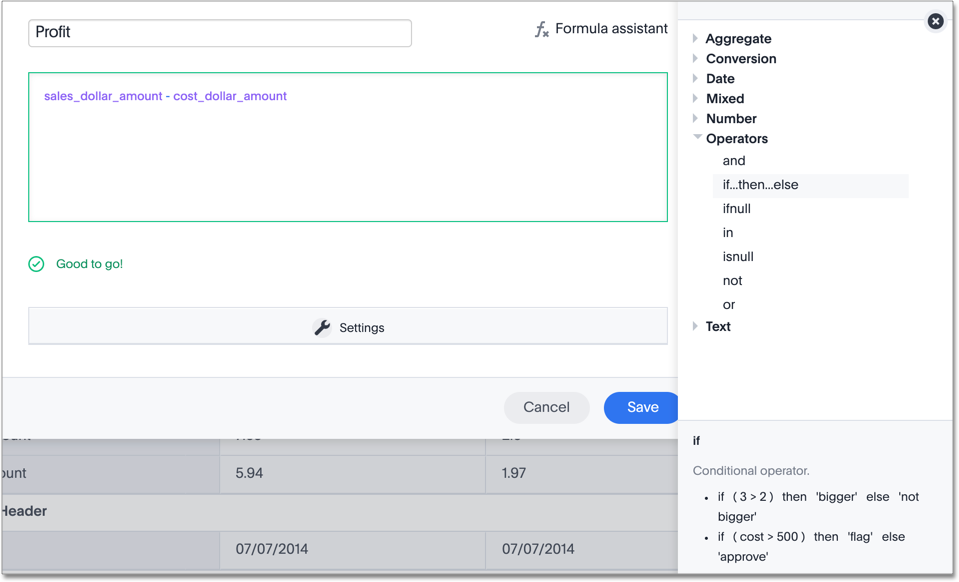
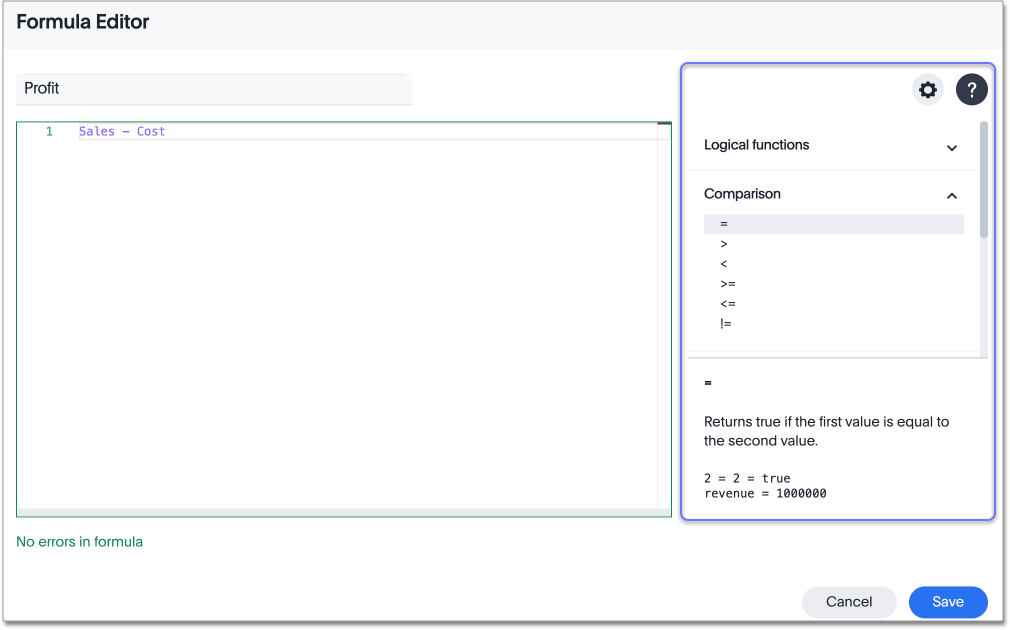
formula editor, beginnings of table config, answer v2 callouts for relevant features

diff --git a/_end-user/search/about-tables.md b/_end-user/search/about-tables.md
@@ -1,11 +1,15 @@
 ---
 title: [Results that are tables]
-last_updated: 3/13/2020
+last_updated: 7/31/2020
+toc: true
 summary: "Tables display your answer in a format similar to an Excel spreadsheet."
 sidebar: mydoc_sidebar
 permalink: /:collection/:path.html
 ---
-In the table view, your search identifies attributes and/or columns, and presents them as a table. ThoughtSpot aggregates the results based on the level of aggregation that you specify in the search. For example, if you only type `revenue`, you see the total sum of revenue as a single number. If you include the keyword `monthly`, the results are broken down by month. From the column header, you can rename the column, or sort or filter the column. You can rearrange the column order of your table by dragging and dropping the columns. You can also change the column widths.
+
+{% include note.html content="Certain elements of table configuration are part of the Answer V2 feature set. These elements include conditional and number formatting for table summaries and improved conditional formatting for attributes and measures in table cells. If Answer V2 is off, you do not see these capabilities. You can turn Answer V2 on or return to the classic experience from the <strong>Data</strong> panel on the <strong>Search</strong> page. If you do not have the option to turn Answer V2 on, contact your administrator." %}
+
+In the table view, your search identifies attributes and/or columns, and presents them as a table. ThoughtSpot aggregates the results based on the level of aggregation that you specify in the search. For example, if you only type `revenue`, you see the total sum of revenue as a single number. If you include the keyword `monthly`, the results are broken down by month. From the column header, you can rename the column, or sort or filter the column. You can rearrange the column order of your table by dragging and dropping the columns, either from the table itself or from the **Edit table: Configure** menu. You can also change the column widths.
 
 ## Rearrange column order
 
@@ -15,6 +19,10 @@ To rearrange the column order:
 
 1. While viewing your answer as a table, click the column header you would like to move.
 2. Drag it across to its new position.
+
+You can also rearrange the column order from the **Edit table: Configure** menu. Click the **edit table configuration** icon ![]({{ site.baseurl }}/images/icon-gear-10px.png){: .inline}. Drag and drop the attribute or measure that you would like to move to a new position. The order of columns in the **Configure** menu reflects the column order of the table.
+
+![Drag and drop gif]({{ site.baseurl }}/images/table-config-drag-drop.gif "Drag and drop gif")
 
 ## Resize column widths
 
@@ -27,23 +35,101 @@ when you pin the table to a pinboard. To resize the column widths:
 
 {: id="clip-wrap-text"}
 ## Clip or wrap text
-You can clip or wrap long text in a table cell, or on a table header.
+You can clip or wrap long text in a table cell, or on a table header. You can configure clipped or wrapped text [for the entire table](#clip-entire-table), or [for each column individually](#clip-one-column).
 
 When you clip long text, the table cells show only the beginning of the text. The rest appears if you increase the column width.
 
 When you wrap long text, the table shows all the text in its cells by increasing the number of lines in the cells.
 
-![Wrap or clip long text]({{ site.baseurl }}/images/chart-config-text.gif "Wrap or clip long text")
+{: id="clip-entire-table"}
+To clip or wrap text for the entire table, click the **edit table configuration** icon ![]({{ site.baseurl }}/images/icon-gear-10px.png){: .inline}. Select **Settings**. Under **text wrapping**, choose **wrap** or **clip**.
+
+![Wrap or clip long text]({{ site.baseurl }}/images/table-config-text.gif "Wrap or clip long text")
+
+{: id="clip-one-column"}
+To clip or wrap text for each column individually, hover over the column name and click the **more options menu** icon ![]({{ site.baseurl }}/images/icon-more-10px.png){: .inline}. Select **text wrapping,** and choose wrap or clip.
+
+![Clip or wrap an individual column]({{ site.baseurl }}/images/table-config-clip-individual-column.png "Clip or wrap an individual column")
+
+{: id="number-formatting"}
+## Number formatting
+You can format the numbers in any table column based on a measure. This functionality allows you to change the **category** (number, percentage, or currency), **units** (auto, none, thousand, million, billion, or trillion), or method of writing **negative values** (-1234, 1234-, or (1234)). When you change the formatting for a column, you also change the formatting for its column summary.
+
+To change the number formatting:
+
+1. Click the **edit table configuration** icon ![]({{ site.baseurl }}/images/icon-gear-10px.png){: .inline} to the upper right of your table. The **Edit table** panel appears, on the **Configure** menu.
+
+2. Select the measure you want to format the values of.
+
+    ![Select a measure]({{ site.baseurl }}/images/table-config-edit-measure.png "Select a measure")
+
+    The **Edit** panel for that column appears.
+
+    You can also reach this panel from the **more** icon that appears when you hover over a column name:
+
+    ![Click number formatting]({{ site.baseurl }}/images/table-config-number-formatting-from-column.png "Click number fomatting")
+
+    On the table, the column that you are editing is highlighted in a blue box.
+
+    ![The edit panel]({{ site.baseurl }}/images/table-config-edit-panel.png "The edit panel")
+
+3. Under **number formatting**, you can edit the category, units, or method of writing negative values. Click the dropdown menus to select new values.
+
+4. Specify a **category**: *number*, *percentage*, or *currency*. If you select **currency**, you can select the type of currency: USD, AUD, EUR, and so on. If you do not pick a category, ThoughtSpot automatically picks the best category for your data.
+
+5. Specify **units**: Select *none* to see your data down to two decimal points, for example, or select *millions* to see labels rounded to the millions. If you do not specify units, ThoughtSpot automatically picks the best units for your data.
+
+    Depending on the unit, you can also specify the number of decimal places, and remove or include the thousand separator.
+
+    ![Unit, decimal places, thousand separator]({{ site.baseurl }}/images/table-config-unit.png "Unit, decimal places, thousand separator")
+
+6. Specify the method for writing **negative values**: -1234, 1234-, or (1234). The default is -1234.
+
+![Number formatting gif]({{ site.baseurl }}/images/table-config-number-formatting.gif "Number formatting gif")
+
+{: id="conditional-formatting"}
+## Conditional formatting
+You can perform conditional formatting on both measures and attributes. 
 
 ## Sort columns
 
 You can sort a table by column values by clicking on the column title. If you
-hold down the SHIFT key you can click multiple heads and sort on them in
-turn.
+hold down the SHIFT key, you can sort on multiple column titles at a time. This is especially useful for date columns. For example, if you search for `sales` by `week` and by `quarter`,  and just sort the `quarterly` column, the weeks are not in order:
+
+![Sort - quarterly]({{ site.baseurl }}/images/sort-one-column.png "Sort - quarterly")
+
+If you press SHIFT and then click on the `weekly` column header, the weeks are in order, by quarter:
+
+![Sort - weekly]({{ site.baseurl }}/images/sort-two-columns.png "Sort - weekly")
+
+You can achieve this from the search bar, as well, by adding `sort by date quarterly` and `sort by date weekly`.
 
 {% include tip.html content="This same functionality is available on tables you
 see elsewhere in ThoughtSpot. For example, a table in the **Data** page is also
 sortable in this manner."%}
+
+## Table footer
+Tables automatically have footers that tell you the number of rows the table has. You can enable or disable this footer from the **Settings** menu.
+
+1. Click the **edit table configuration** icon ![]({{ site.baseurl }}/images/icon-gear-10px.png){: .inline} to the upper right of your table. The **Edit table** panel appears, on the **Configure** menu.
+
+2. Select **Settings**.
+
+3. Select **table footer** to enable or disable it.
+
+    ![Enable or disable table footer]({{ site.baseurl }}/images/table-config-footer.png "Enable or disable table footer")
+
+## Column summaries
+
+For columns with numeric information, you can turn on **column summaries** that display column totals.
+
+1. Click the **edit table configuration** icon ![]({{ site.baseurl }}/images/icon-gear-10px.png){: .inline} to the upper right of your table. The **Edit table** panel appears, on the **Configure** menu.
+
+2. Select **Settings**.
+
+3. Select **column summary** to enable or disable column summaries for your table.
+
+    ![Enable or disable column summaries]({{ site.baseurl }}/images/table-config-column-summary.png "Enable or disable column summaries")
 
 ## About headlines (summary information)
 

diff --git a/_complex-search/how-to-add-formula.md b/_complex-search/how-to-add-formula.md
@@ -1,24 +1,24 @@
 ---
 title: [Add a formula to a search]
 summary: Learn how to add a formula to a search.
-last_updated: 3/26/2020
+last_updated: 10/23/2020
 sidebar: mydoc_sidebar
 permalink: /:collection/:path.html
 ---
+
+{% include note.html content="Formula Editor V2 is part of the Answer V2 feature set. You can turn Answer V2 on or return to the classic experience from the <strong>Data</strong> panel on the <strong>Search</strong> page. If you do not have the option to turn Answer V2 on, contact your administrator." %}
+
 You can add a formula directly within a search. Some common reasons for using a formula in a search are to perform mathematical functions, check for and replace null values, or add conditional logic.
 
 ## How to add a formula
 
 To create a formula in a search:
 
-1. Start a new search, or choose an existing answer from a pinboard to edit.
-2. If the answer shows a chart, switch to **Table View**.
+1. Start a new search, or choose an existing answer to edit.
 
-     ![Switch to table view]({{ site.baseurl }}/images/changeview-chartortable.png "Switch to table view")
+3. Open the **Data** panel from the upper right corner if it is not open, and click the **+** icon next to **Formulas**.
 
-3. In the upper-right side of the table, click the three-dot **Actions** icon and select **Add formula**.
-
-     ![Create a new formula in an answer]({{ site.baseurl }}/images/formula-add-to-search.png "Create a new formula in an answer")
+    ![Click + to add a formula]({{ site.baseurl }}/images/formula-editor-add.png "Click + to add a formula")
 
 4. Name and enter your formula in the Formula Builder.
 
@@ -26,20 +26,19 @@ To create a formula in a search:
 
     {% include note.html content="Formulas elements are color coded by type and can include the formula operators and functions (blue), the names of columns (purple), and/or constants (black)." %}
 
-5.  You can see a list of formula operators with examples by clicking **Formula Assistant.**
+5.  You can see a list of formula operators with examples by selecting the help icon **?** in the upper right corner. Expand a category, such as **Comparison**, and click on an operator for a definition and example.
 
-    ![Formula Assistant]({{ site.baseurl }}/images/worksheet-formula-assistant.png "Formula Assistant")
+    ![Formula Editor help]({{ site.baseurl }}/images/worksheet-formula-assistant.png "Formula Editor help")
 
-6.  If you want to change what your formula returns, use the **Advanced settings**. Depending on your formula, you may be able to change:
+6.  To change what your formula returns, use the **Advanced settings** by selecting the settings icon ![]({{ site.baseurl }}/images/icon-gear-10px.png){: .inline}. Depending on your formula, you may be able to change the following aspects:
 
-    -   Data type
-    -   Measure or attribute
-    -   Aggregation
+    -   **Data type**: Determines the type of data that the formula generates. For example, use `date` for an `add_days` formula.
+    -   **Measure or attribute**: Determines if the output of the formula is a measure or an attribute. For example, choose `attribute` for a formula that generates age groups, and choose `measure` for a formula that generates profit.
+    -   **Aggregation**: Determines the default aggregation of the formula output. For example, choose `min` to see minimum profit.
 
     ![Advanced settings in the Formula Builder]({{ site.baseurl }}/images/worksheet-formula-settings.png "Advanced settings in the Formula Builder")
 
-7. Name the formula by clicking its title and typing the new name. Click **Save**.
-
+7. Click **Save**.
 
 ## Related information  
 

diff --git a/_end-user/search/ask-an-expert.md b/_end-user/search/ask-an-expert.md
@@ -6,6 +6,8 @@ sidebar: mydoc_sidebar
 permalink: /:collection/:path.html
 ---
 
+{% include note.html content="Ask an Expert is not available in the beta version of Answer V2. To use Ask an Expert, turn Answer V2 off from the <strong>Data</strong> panel on the <strong>Search</strong> page." %}
+
 At times you may struggle to answer a specific question, build a chart you have in mind, or find something in your data. You can use **Ask an expert** to request help from someone in your organization. Your request goes to the person in your company who best knows the data source you're using and how to search it in ThoughtSpot. When the expert responds, you can see the expert's answer in the **Ask an Expert** interface in ThoughtSpot.
 
 {% include note.html content="If you don't see **Ask an expert** it's possible that your company has chosen to disable this capability. If you want to try it out, ask your administrator to consider enabling it." %}

diff --git a/_admin/worksheets/create-formula.md b/_admin/worksheets/create-formula.md
@@ -31,9 +31,9 @@ You can create a formula in a worksheet by using the Formula Builder. When you d
 
    Depending on your formula, you may be able to change:
 
-    -   Data type
-    -   ATTRIBUTE or MEASURE
-    -   Aggregation type
+    -   **Data type**: Determines the type of data that the formula generates. For example, use `date` for an `add_days` formula.
+    -   **Measure or attribute**: Determines if the output of the formula is a measure or an attribute. For example, choose `attribute` for a formula that generates age groups, and choose `measure` for a formula that generates profit.
+    -   **Aggregation**: Determines the default aggregation of the formula output. For example, choose `min` to see minimum profit.
 
     ![Advanced settings in the Formula Builder]({{ site.baseurl }}/images/worksheet-formula-settings.png "Advanced settings in the Formula Builder")
 

diff --git a/_end-user/search/answer-expert-question.md b/_end-user/search/answer-expert-question.md
@@ -7,6 +7,8 @@ sidebar: mydoc_sidebar
 permalink: /:collection/:path.html
 ---
 
+{% include note.html content="Ask an Expert is not available in the beta version of Answer V2. To use Ask an Expert, turn Answer V2 off from the <strong>Data</strong> panel on the <strong>Search</strong> page." %}
+
 When a user struggles to answer a specific question, build a chart they have in mind, or find something in the data, they can use **Ask an Expert** to request help. The request goes to the designated expert for the data source they were searching. The user can see the expert's answer in the **Ask an Expert** interface in ThoughtSpot.
 
 ## How do I answer a question from Ask an Expert?

diff --git a/_end-user/search/about-sankey-charts.md b/_end-user/search/about-sankey-charts.md
@@ -7,6 +7,9 @@ summary: "The Sankey chart is a type of chart that contains both columns and a s
 sidebar: mydoc_sidebar
 permalink: /:collection/:path.html
 ---
+
+{% include note.html content="Sankey charts are not available in the beta version of Answer V2. To use Sankey charts, turn Answer V2 off from the <strong>Data</strong> panel on the <strong>Search</strong> page." %}
+
 Sankey diagrams illustrate a flow through a process or system. Transactional
 data is optimal for this type of diagram.  For example, financial transactions
 that take place as money moves through accounts or as a product is process. Many

diff --git a/_end-user/r-scripts/about-r-in-thoughtspot.md b/_end-user/r-scripts/about-r-in-thoughtspot.md
@@ -6,6 +6,8 @@ sidebar: mydoc_sidebar
 permalink: /:collection/:path.html
 ---
 
+{% include note.html content="R scripts are not available in the beta version of Answer V2. To use R scripts, turn Answer V2 off from the <strong>Data</strong> panel on the <strong>Search</strong> page." %}
+
 R is a popular open source programming language for statistical computing, machine learning, and AI. ThoughtSpot makes R analysis available as a fully integrated feature.
 
 {% include note.html content="Custom R is disabled by default. To turn on custom R scripting, contact your site administrator." %}

diff --git a/_complex-search/about-pivoting-a-table.md b/_complex-search/about-pivoting-a-table.md
@@ -7,6 +7,9 @@ summary: "A pivot table is a chart type."
 sidebar: mydoc_sidebar
 permalink: /:collection/:path.html
 ---
+
+{% include note.html content="Pivot tables are not available in the beta version of Answer V2. To use pivot tables, turn Answer V2 off from the <strong>Data</strong> panel on the <strong>Search</strong> page." %}
+
 Creating a pivot table enables exploring alternate visualization of data in a
 wide table. It is useful especially when improve data display when some data is
 best viewed horizontally, while others, vertically. Pivot tables are a chart

diff --git a/_end-user/search/about-attributes-and-measures.md b/_end-user/search/about-attributes-and-measures.md
@@ -18,6 +18,8 @@ Measures are numeric values you can do math on, with meaningful results. You wil
 
 ## Query details
 
+{% include note.html content="The query visualizer is not available in the beta version of Answer V2. To use the query visualizer, turn Answer V2 off from the <strong>Data</strong> panel on the <strong>Search</strong> page." %}
+
 After, or while completing a search, you can see how ThoughtSpot displayed the
 answer. Click the **Query details** button on the right-hand side of the screen
 to open the **Query details** panel.

diff --git a/_end-user/r-scripts/run-prebuilt-r-scripts.md b/_end-user/r-scripts/run-prebuilt-r-scripts.md
@@ -6,6 +6,8 @@ sidebar: mydoc_sidebar
 permalink: /:collection/:path.html
 ---
 
+{% include note.html content="R scripts are not available in the beta version of Answer V2. To use R scripts, turn Answer V2 off from the <strong>Data</strong> panel on the <strong>Search</strong> page." %}
+
 If you have R privileges on your ThoughtSpot instance, you can run R analyses on
 search results, and save and share the resulting visualization with others. The
 users you share visualizations with do not need R privileges.

diff --git a/_end-user/r-scripts/save-and-share-r-answers.md b/_end-user/r-scripts/save-and-share-r-answers.md
@@ -6,6 +6,8 @@ sidebar: mydoc_sidebar
 permalink: /:collection/:path.html
 ---
 
+{% include note.html content="R scripts are not available in the beta version of Answer V2. To use R scripts, turn Answer V2 off from the <strong>Data</strong> panel on the <strong>Search</strong> page." %}
+
 In terms of sharing, the R visualization you get as a result of running a script is similar to any
 other search result in ThoughtSpot. You can save it, share it, and add it to pinboards.
 

diff --git a/_end-user/r-scripts/create-r-scripts.md b/_end-user/r-scripts/create-r-scripts.md
@@ -6,6 +6,8 @@ sidebar: mydoc_sidebar
 permalink: /:collection/:path.html
 ---
 
+{% include note.html content="R scripts are not available in the beta version of Answer V2. To use R scripts, turn Answer V2 off from the <strong>Data</strong> panel on the <strong>Search</strong> page." %}
+
 ## Overview
 
 {% include note.html content="Custom R is disabled by default. To turn on custom R scripting, contact your site administrator." %}
